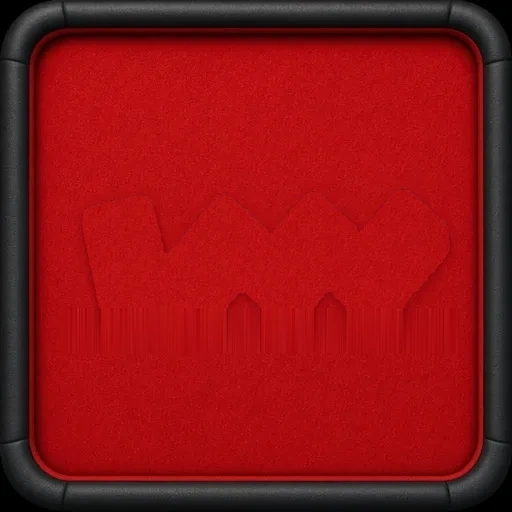
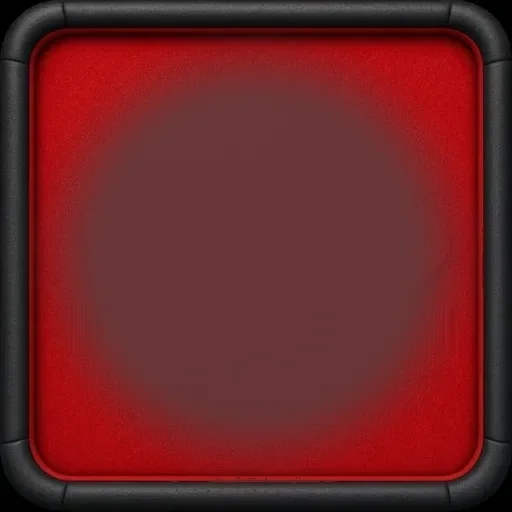
Quiet the original tables and add six full-surface skins.
The existing tables keep their themes, with the busy art pulled to the edges so the chain stays readable. Classic Green Felt, Walnut Planks, Charcoal Slate, Navy Suede, Teal Island Boards, and Burgundy Art Deco join the store.

diff --git a/packages/rules/src/catalog.ts b/packages/rules/src/catalog.ts
@@ -859,6 +859,114 @@ export const CATALOG: readonly StoreItem[] = [
     "art": true
   },
   {
+    "id": "TBL-011",
+    "name": "Classic Green Felt",
+    "category": "table",
+    "rarity": "Common",
+    "obtain": "bones",
+    "bones": 600,
+    "gold": null,
+    "unlock": "",
+    "limited": false,
+    "availableFrom": null,
+    "availableUntil": null,
+    "description": "Green felt with a thin gold line and a small center diamond",
+    "avatarId": null,
+    "fxId": null,
+    "skin": null,
+    "art": true
+  },
+  {
+    "id": "TBL-012",
+    "name": "Walnut Planks",
+    "category": "table",
+    "rarity": "Common",
+    "obtain": "bones",
+    "bones": 900,
+    "gold": null,
+    "unlock": "",
+    "limited": false,
+    "availableFrom": null,
+    "availableUntil": null,
+    "description": "Walnut planks with brass corner plates",
+    "avatarId": null,
+    "fxId": null,
+    "skin": null,
+    "art": true
+  },
+  {
+    "id": "TBL-013",
+    "name": "Charcoal Slate",
+    "category": "table",
+    "rarity": "Rare",
+    "obtain": "bones",
+    "bones": 1500,
+    "gold": 200,
+    "unlock": "",
+    "limited": false,
+    "availableFrom": null,
+    "availableUntil": null,
+    "description": "Charcoal slate with a thin copper line",
+    "avatarId": null,
+    "fxId": null,
+    "skin": null,
+    "art": true
+  },
+  {
+    "id": "TBL-014",
+    "name": "Navy Suede",
+    "category": "table",
+    "rarity": "Rare",
+    "obtain": "bones",
+    "bones": 2000,
+    "gold": 250,
+    "unlock": "",
+    "limited": false,
+    "availableFrom": null,
+    "availableUntil": null,
+    "description": "Navy suede with a stitched border and a faint star",
+    "avatarId": null,
+    "fxId": null,
+    "skin": null,
+    "art": true
+  },
+  {
+    "id": "TBL-015",
+    "name": "Teal Island Boards",
+    "category": "table",
+    "rarity": "Rare",
+    "obtain": "bones",
+    "bones": 2500,
+    "gold": 300,
+    "unlock": "",
+    "limited": false,
+    "availableFrom": null,
+    "availableUntil": null,
+    "description": "Teal boards with palm shadows in the corners",
+    "avatarId": null,
+    "fxId": null,
+    "skin": null,
+    "art": true
+  },
+  {
+    "id": "TBL-016",
+    "name": "Burgundy Art Deco",
+    "category": "table",
+    "rarity": "Rare",
+    "obtain": "bones",
+    "bones": 2500,
+    "gold": 300,
+    "unlock": "",
+    "limited": false,
+    "availableFrom": null,
+    "availableUntil": null,
+    "description": "Burgundy cloth with gold deco corners",
+    "avatarId": null,
+    "fxId": null,
+    "skin": null,
+    "art": true
+  },
+  {
     "id": "FRM-001",
     "name": "Red Enamel",
     "category": "frame",

diff --git a/packages/rules/src/catalog.test.ts b/packages/rules/src/catalog.test.ts
@@ -3,7 +3,7 @@ import { CATALOG, canBuy, isWithheldId, itemById } from "./catalog.js";
 
 describe("store catalog", () => {
   it("ships the sheet without the withheld character", () => {
-    expect(CATALOG).toHaveLength(85);
+    expect(CATALOG).toHaveLength(91);
     expect(CATALOG.some((item) => item.id === "CHR-015")).toBe(false);
     expect(JSON.stringify(CATALOG).includes("2 Hot")).toBe(false);
     expect(isWithheldId("CHR-015")).toBe(true);
@@ -21,6 +21,15 @@ describe("store catalog", () => {
     expect(canBuy(itemById("FRM-011")!, "gold")).toBe(false);
     expect(itemById("FRM-011")?.availableFrom).toBe("2026-12-01");
     expect(itemById("FX-004")?.bones).toBe(50_000);
+    expect(itemById("TBL-011")).toMatchObject({ name: "Classic Green Felt", rarity: "Common", bones: 600, gold: null });
+    expect(itemById("TBL-012")).toMatchObject({ name: "Walnut Planks", rarity: "Common", bones: 900 });
+    expect(itemById("TBL-013")).toMatchObject({ name: "Charcoal Slate", rarity: "Rare", bones: 1500, gold: 200 });
+    expect(itemById("TBL-014")).toMatchObject({ name: "Navy Suede", rarity: "Rare", bones: 2000, gold: 250 });
+    expect(itemById("TBL-015")).toMatchObject({ name: "Teal Island Boards", rarity: "Rare", bones: 2500, gold: 300 });
+    expect(itemById("TBL-016")).toMatchObject({ name: "Burgundy Art Deco", rarity: "Rare", bones: 2500, gold: 300 });
+    for (const id of ["TBL-001", "TBL-002", "TBL-003", "TBL-004", "TBL-005", "TBL-006", "TBL-007", "TBL-008", "TBL-009", "TBL-010"]) {
+      expect(itemById(id)?.category).toBe("table");
+    }
     expect(itemById("CHR-011")?.obtain).toBe("gold");
     expect(CATALOG.every((item) => item.art)).toBe(true);
   });

diff --git a/packages/web/src/store.tsx b/packages/web/src/store.tsx
@@ -178,7 +178,7 @@ export function useMatchCosmetics(): { skin: string; tableArt: string | null } {
         const tile = body.items.find((item) => item.id === body.loadout.tileId);
         setWear({
           skin: tile?.skin || "ivory",
-          tableArt: body.loadout.tableId ? `/store/${body.loadout.tableId}.webp?v=4` : null,
+          tableArt: body.loadout.tableId ? `/store/${body.loadout.tableId}.webp?v=5` : null,
         });
       })
       .catch(() => undefined);
@@ -301,7 +301,7 @@ function Price({ item, owned, wearing }: { item: StoreItem; owned: boolean; wear
 function artSrc(item: StoreItem): string | null {
   if (!item.art) return null;
   if (item.avatarId) return `/avatars/${item.avatarId}.webp`;
-  if (item.category === "table") return `/store/${item.id}.webp?v=4`;
+  if (item.category === "table") return `/store/${item.id}.webp?v=5`;
   return `/store/${item.id}.webp`;
 }
 

diff --git a/packages/web/src/App.tsx b/packages/web/src/App.tsx
@@ -390,7 +390,7 @@ function Game({
 }) {
   const link = tableLink(view.roomCode, window.__UHOH__?.publicUrl, location.origin);
   const cosmetics = useMatchCosmetics();
-  const tableArt = view.tableId ? `/store/${view.tableId}.webp?v=4` : null;
+  const tableArt = view.tableId ? `/store/${view.tableId}.webp?v=5` : null;
   const tileSkin = cosmetics.skin || "ivory";
   void dismissedHand;
   const [drag, setDrag] = useState<{ tileId: string; aimEndId: string | null } | null>(null);
